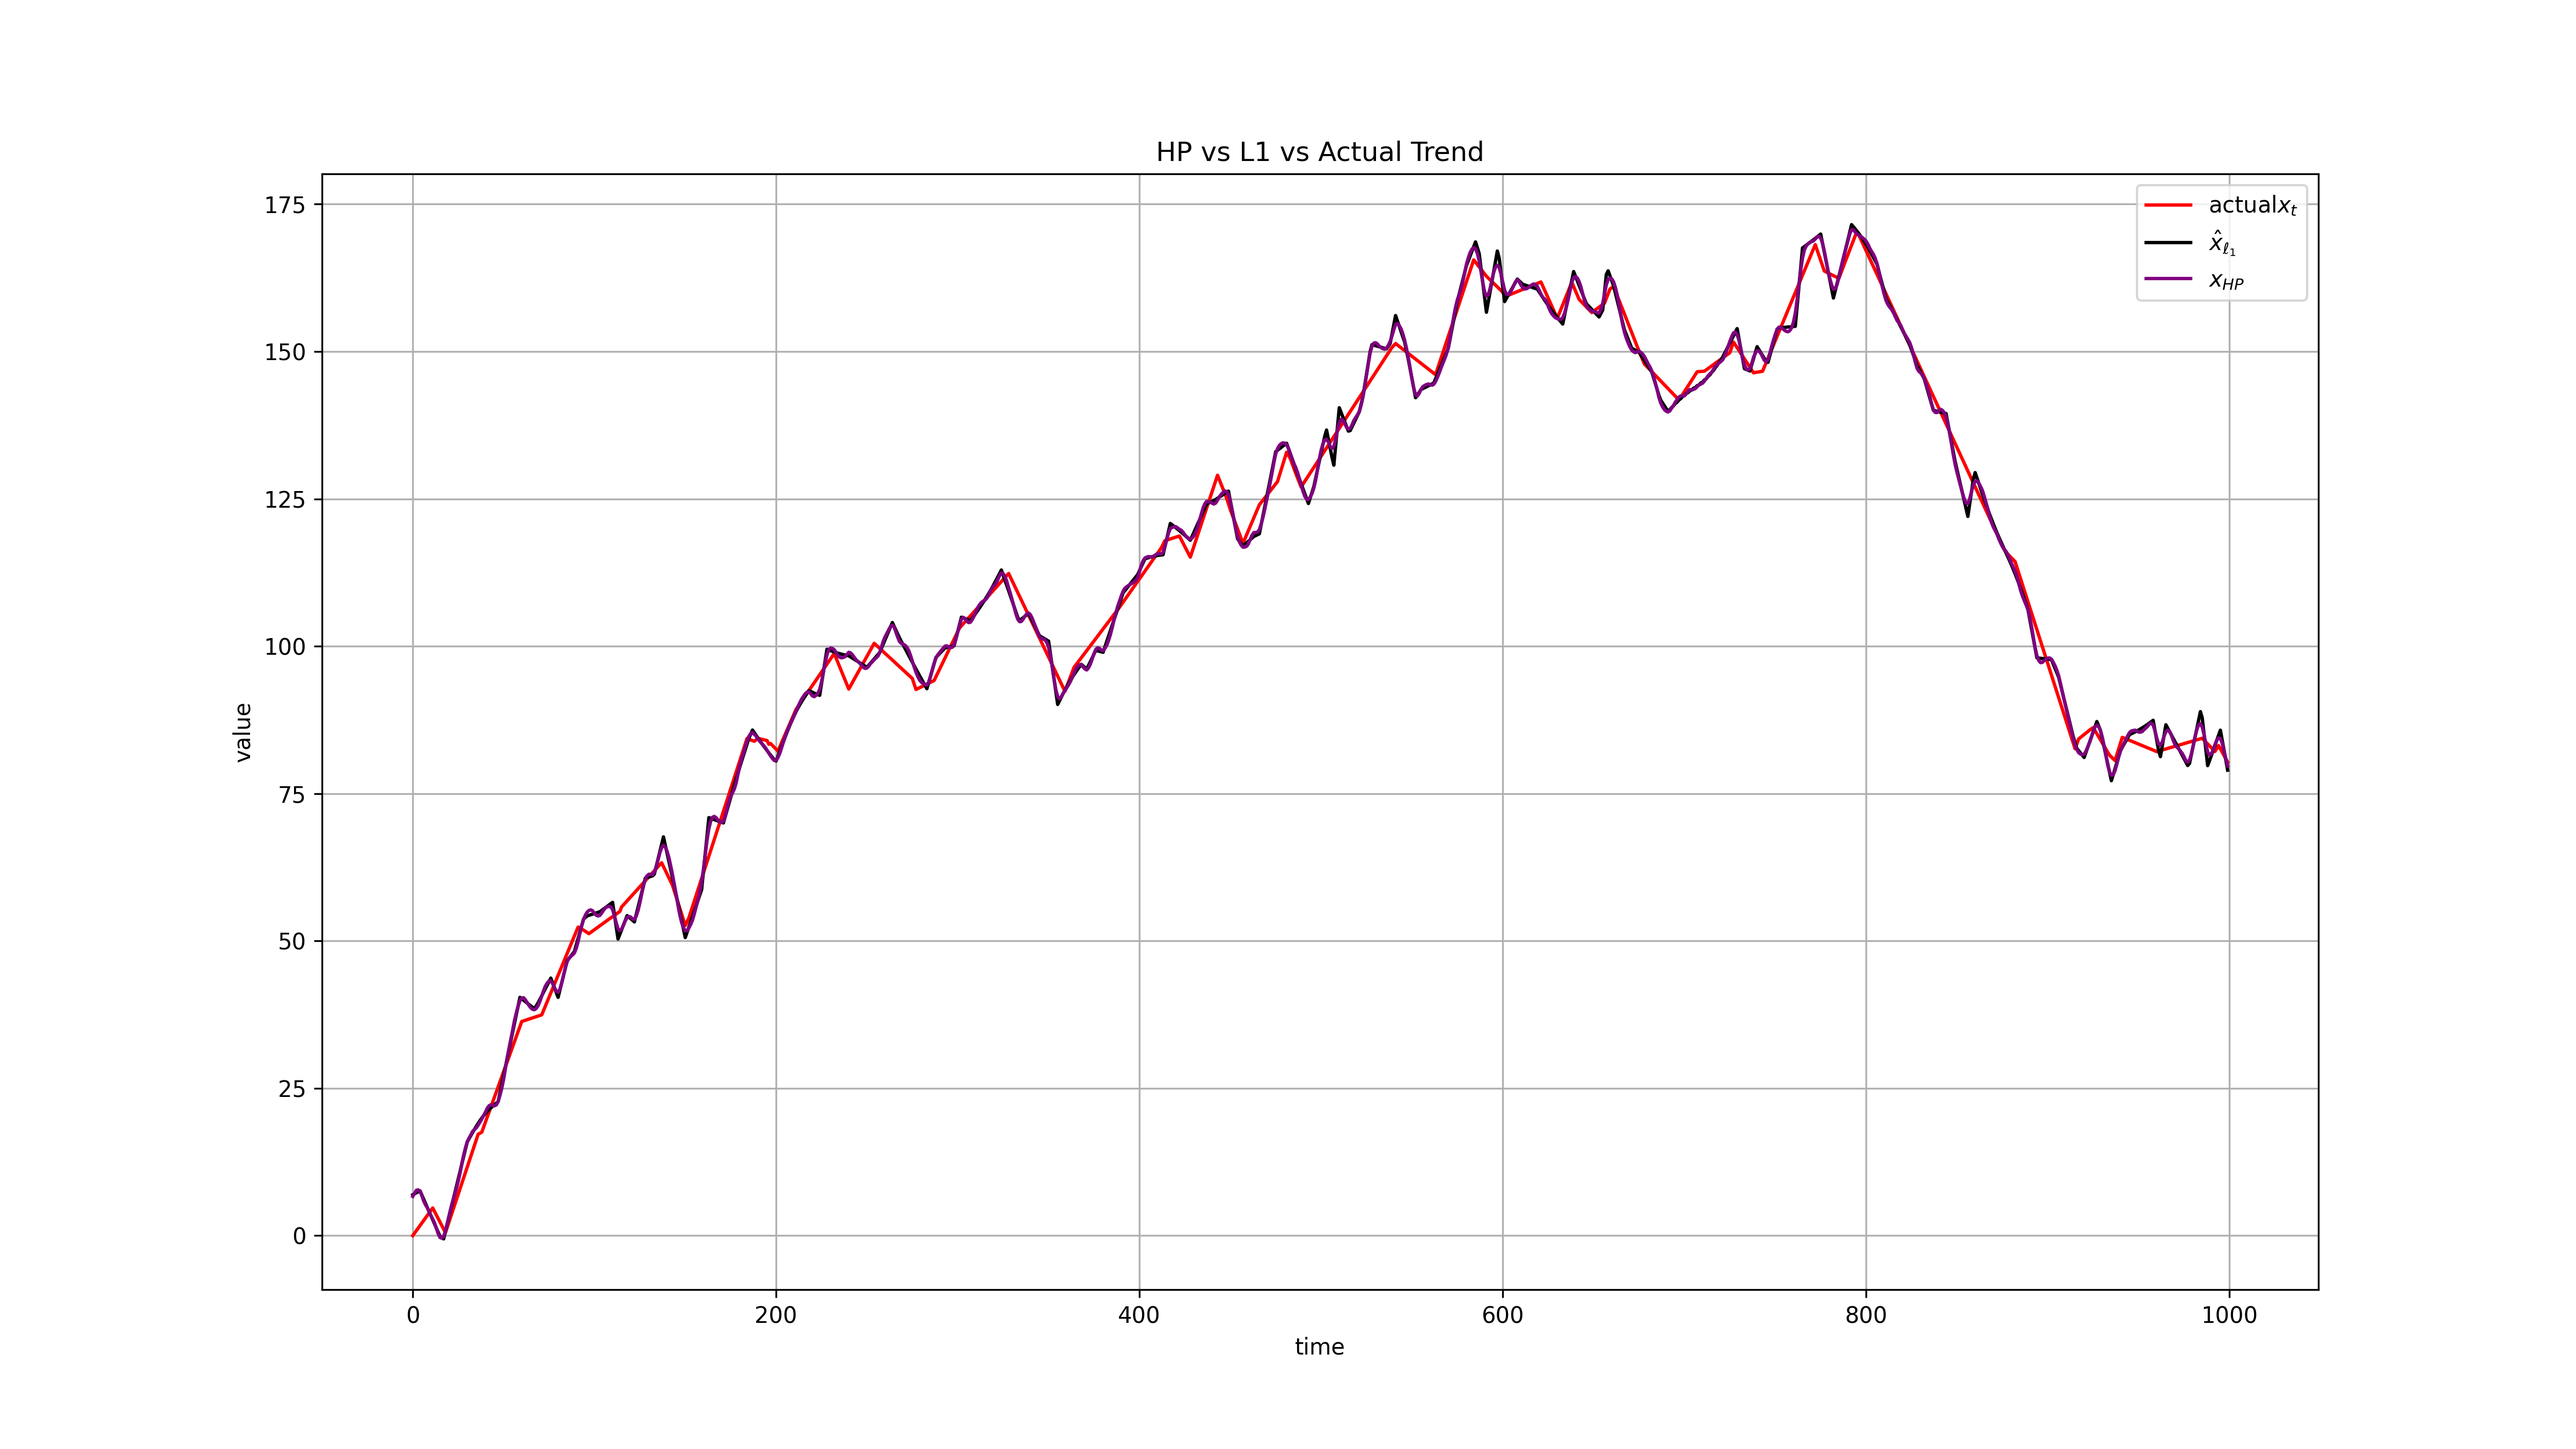
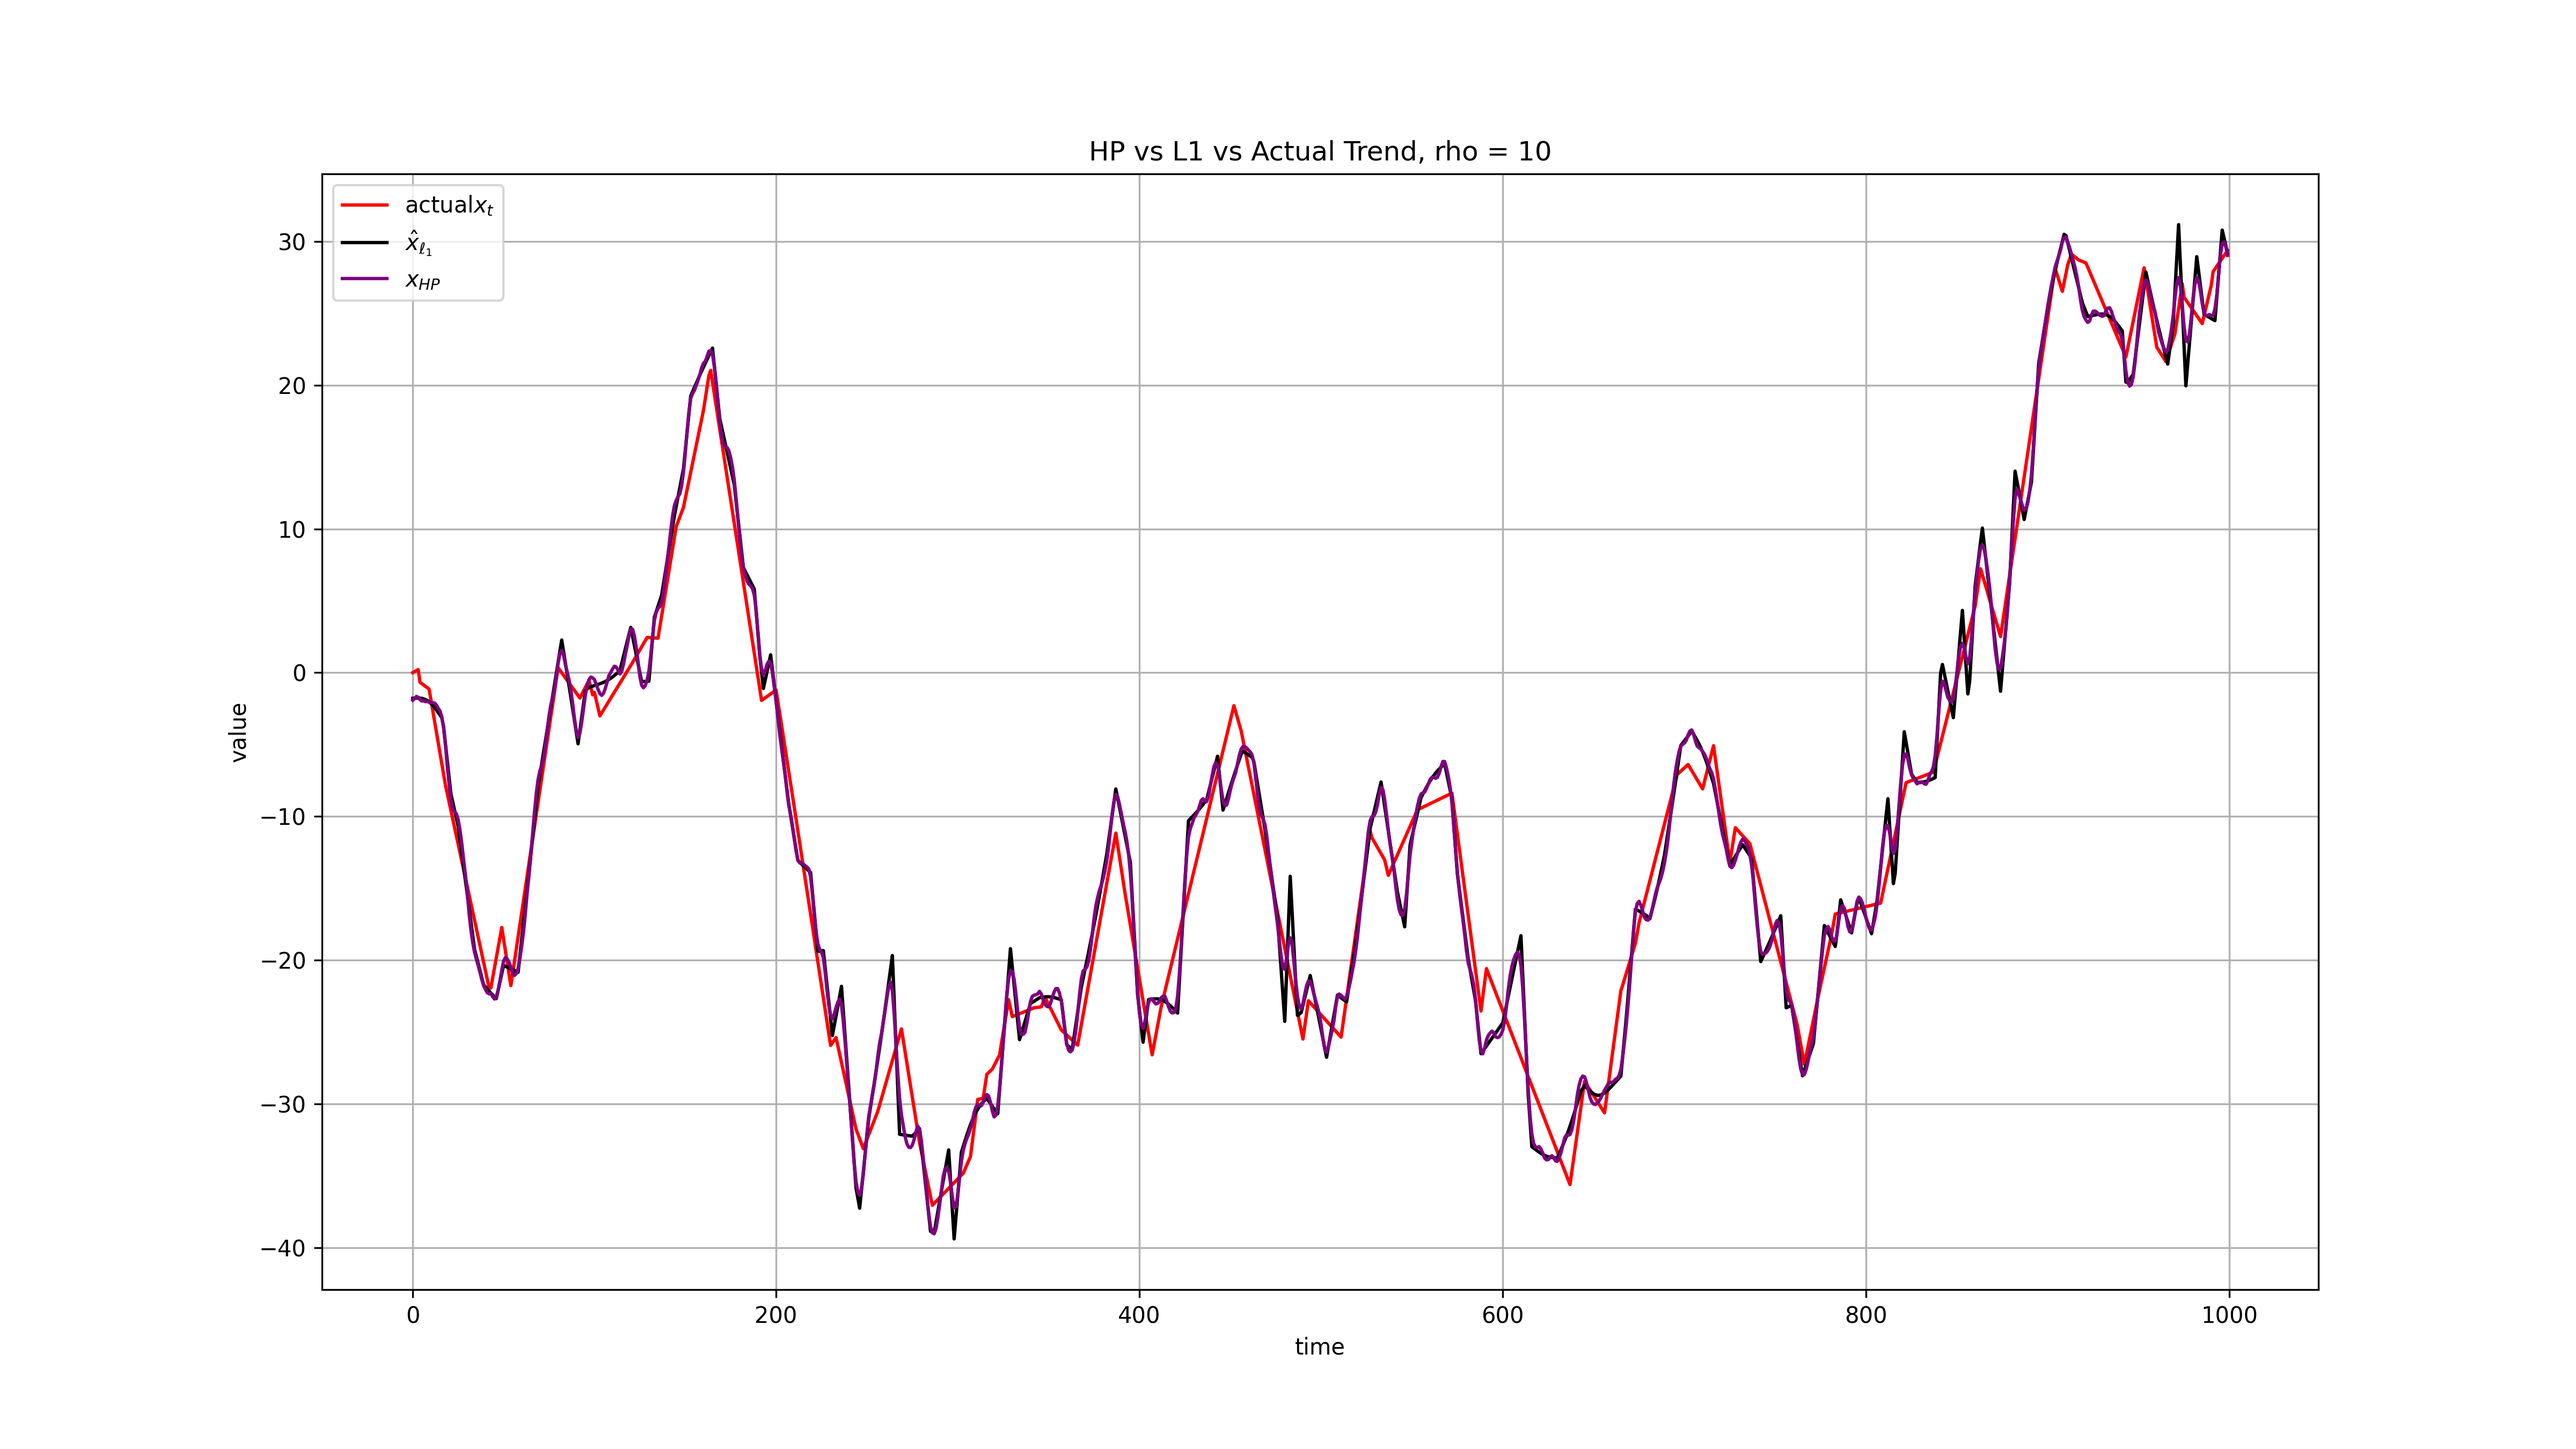
lab3 done

diff --git a/lab3/src/main.py b/lab3/src/main.py
@@ -5,6 +5,7 @@ import scipy
 
 np.random.seed(22)
 
+# generatoare
 def generate_time_series(n, sigma, p):
     noise = np.random.normal(0, sigma ** 2, n)
     p_tresholds = np.random.rand(n)
@@ -30,6 +31,7 @@ def generate_difference_matrix(n):
     D = scipy.sparse.diags(diagonals, offsets, shape=(n - 2, n)).toarray()
     return D
 
+# pentru cvxpy
 def filter_function(x, y, D, rho):
     fidelity = 1 / 2 * (cp.norm(x - y, 2) ** 2)
     smoothness = rho * cp.norm(D @ x, 1)
@@ -38,6 +40,7 @@ def filter_function(x, y, D, rho):
 
     return filter
 
+# mgp
 '''
 ca sa mearga mgp pentru n > 10 ** 4, matricea D este prea mare pentru a fi stocata in memorie 
 trebuie sa aplic functia de convolutie pe x echivalenta cu Dx
@@ -85,7 +88,7 @@ def mgp(y, rho, n, e = 1e-2, p = 0.5, c = 0.5, max_iter = 1000):
         f_x_k_next = f_lagrange(projection(miu - alpha_k * grad_miu, rho), y)
         g_x_k = g(miu, alpha_k, grad_miu, rho)
 
-        while f_x_k_next < (f_x_k - c * alpha_k * np.linalg.norm(g_x_k) ** 2):
+        while f_x_k_next <= (f_x_k - c * alpha_k * np.linalg.norm(g_x_k) ** 2):
             alpha_k = p * alpha_k
 
             miu_proj = projection(miu - alpha_k * grad_miu, rho)
@@ -98,12 +101,13 @@ def mgp(y, rho, n, e = 1e-2, p = 0.5, c = 0.5, max_iter = 1000):
 
         miu = projection(miu - alpha_k * grad_miu, rho)
 
-        if np.linalg.norm(g_x_k) < e:
+        if np.linalg.norm(g_x_k) <= e:
             print(f"minim gasit dupa {i} iteratii")
             break
 
     return miu
 
+# x_hp
 def solve_x_hp(y, rho, n, D):
     A = np.eye(n) + 2 * rho * D.T @ D
     '''
@@ -155,6 +159,7 @@ def solve_x_hp(y, rho, n, D):
     
     return x
 
+# functii pentru plot
 def plot_trend_time_series(trend, time_series, n, labels, title, file_name):
     t = np.arange(n)
     
@@ -254,37 +259,22 @@ plot_trend_time_series(x_l1, time_series, n, [r'$\hat{x}_{\ell_1}$', r'$y_t$'], 
 
 
 # d
-'''
-functioneaza si pentru n > 10 ** 4, dar e mai clara diferenta pe plot pentru un 
-'''
-n = 1000
-sigma = 2.5 
-probability = 0.9
-
-trend, time_series, noise, v = generate_time_series(n, sigma, probability)
-D = generate_difference_matrix(n)
-
-rho = 10
-
 x_hp = solve_x_hp(time_series, rho, n, D)
 plot_trend_time_series(x_hp, time_series, n, [r'$x_{HP}$', r'$y_t$'], f'Solutia Modelului Hodrick-Prescott pentru rho = {rho}', 'd_x_hp')
 
 
 # e
-miu_star = mgp(time_series, rho, n)
-x_l1 = time_series - compute_DTx(miu_star)
-
 plot_trend_time_series(x_hp[:1000], x_l1[:1000], 1000, ['$x_{HP}$', r'$\hat{x}_{\ell_1}$'], f'Solutia Modelului HP vs Solutia l1 pentru rho = {rho}', 'e_x_hp_vs_x_l1_1')
 
 label = r'$y_t$'
 file_name = 'e_x_hp_vs_x_l1_2'
-title = 'HP vs L1 vs Time Series'
-plot_x_hp_vs_x_l1(x_hp[:1000], x_l1[:1000], time_series, 1000, label, title, file_name)
+title = f'HP vs L1 vs Time Series, rho = {rho}'
+plot_x_hp_vs_x_l1(x_hp[:1000], x_l1[:1000], time_series[:1000], 1000, label, title, file_name)
 
 label = 'actual' + r'$x_t$'
 file_name = 'e_x_hp_vs_x_l1_3'
-title = 'HP vs L1 vs Actual Trend'
-plot_x_hp_vs_x_l1(x_hp[:1000], x_l1[:1000], trend, 1000, label, title, file_name)
+title = f'HP vs L1 vs Actual Trend, rho = {rho}'
+plot_x_hp_vs_x_l1(x_hp[:1000], x_l1[:1000], trend[:1000], 1000, label, title, file_name)
 
 
 '''
